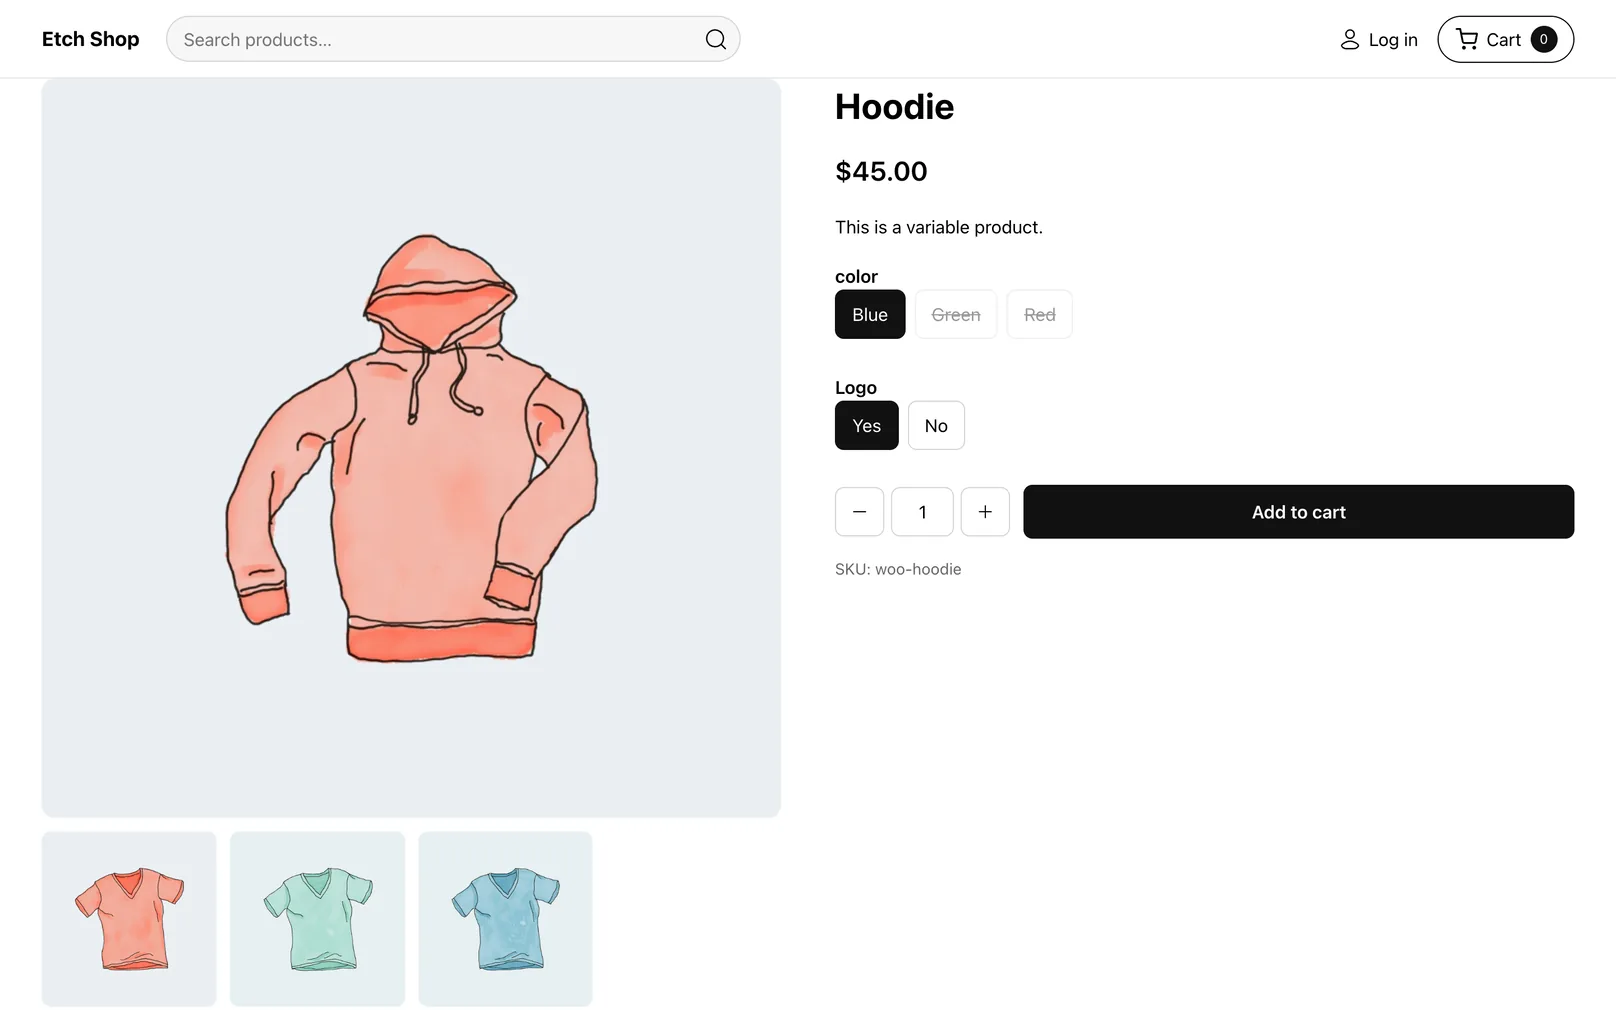
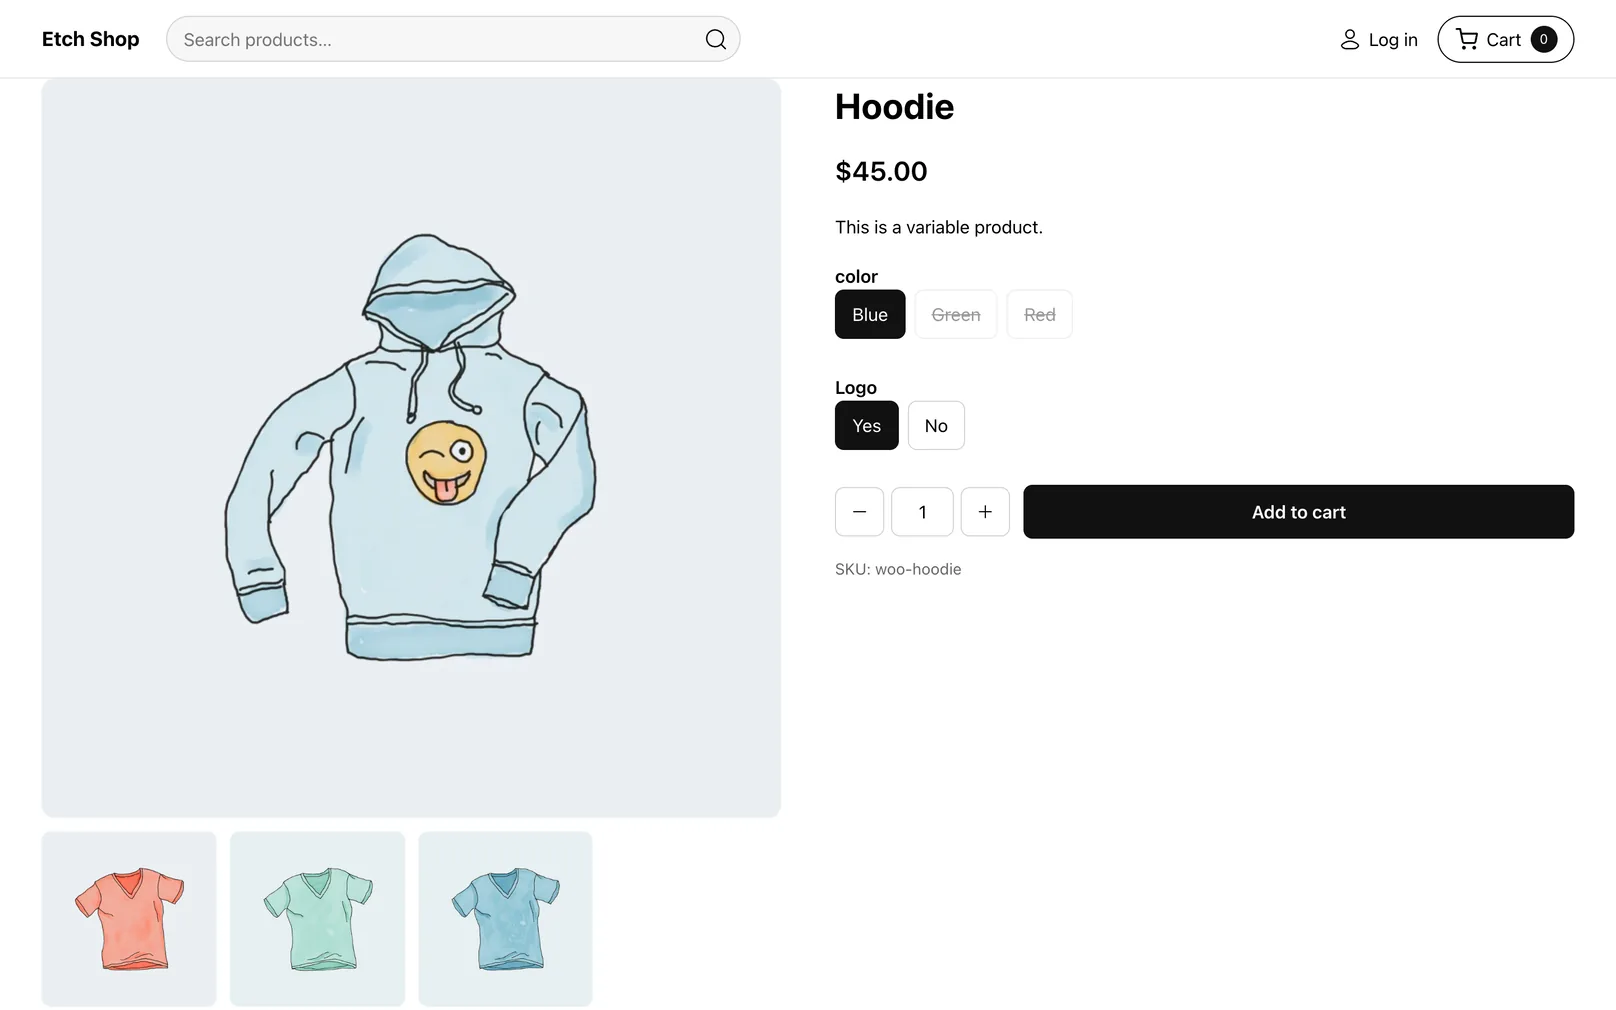
docs(woocommerce): product image role, review contact fields, phone screenshots (#71)
* docs(woocommerce): product-image role, review contact fields and singular counts

Screenshots retaken with the fixed starters; the category page is back.

* docs(woocommerce): the starters on a phone

---------

Changed region(s): [[0.1238, 0.2149, 0.3713, 0.6752]]

diff --git a/docs/docs/integrations/woocommerce/product-data.md b/docs/docs/integrations/woocommerce/product-data.md
@@ -45,10 +45,13 @@ Prices are plain text in the shop's format, with currency and tax as the shop di
 | Field | Content |
 | --- | --- |
 | `rating`, `rating_count`, `review_count` | Average rating and counts |
+| `has_one_review` | The product has exactly one review, for a label like `1 review` |
 | `rating_label` | The average with one decimal in the shop's number format, such as `4,5` |
 | `reviews` | Up to 20 approved reviews, newest first: `{ id, author, rating, text, date, date_iso, verified }` |
 | `reviews_open` | The shop takes reviews and the product is open for them |
-| `can_review` | The visitor may write a review. When WooCommerce allows reviews by verified owners only, this needs a logged-in customer who bought the product |
+| `can_review` | The visitor may write a review. When WooCommerce allows reviews by verified owners only, this needs a logged-in customer who bought the product. When WordPress takes comments from registered users only, guests may not review |
+| `review_contact_required` | A guest reviews and WordPress requires name and email (**Settings → Discussion**) |
+| `review_contact_optional` | A guest reviews and WordPress does not require name and email |
 
 A review form is your own markup. It posts to WordPress, which validates, stores and moderates the review as for WooCommerce's own form:
 
@@ -63,11 +66,17 @@ A review form is your own markup. It posts to WordPress, which validates, stores
   </fieldset>
   <label for="review-text">Your review</label>
   <textarea id="review-text" name="comment" required></textarea>
-  {#if !woo.account.is_logged_in}
+  {#if this.woo.review_contact_required}
   <label for="review-author">Name</label>
   <input type="text" id="review-author" name="author" autocomplete="name" required />
   <label for="review-email">Email</label>
   <input type="email" id="review-email" name="email" autocomplete="email" required />
+  {/if}
+  {#if this.woo.review_contact_optional}
+  <label for="review-author-optional">Name</label>
+  <input type="text" id="review-author-optional" name="author" autocomplete="name" />
+  <label for="review-email-optional">Email</label>
+  <input type="email" id="review-email-optional" name="email" autocomplete="email" />
   {/if}
   <input type="hidden" name="comment_post_ID" value="{this.id}" />
   <input type="hidden" name="comment_parent" value="0" />
@@ -76,7 +85,7 @@ A review form is your own markup. It posts to WordPress, which validates, stores
 {/if}
 ```
 
-`{site.url}` keeps the form working when WordPress is installed in a subdirectory. Guests who may review need the name and email fields. Keep `required` on them when **Comment author must fill out name and email** is enabled under **Settings → Discussion**, and remove it when it is not.
+`{site.url}` keeps the form working when WordPress is installed in a subdirectory. Guests get the name and email fields, required when WordPress requires them; logged-in customers get neither. **Woo Product** builds its review form this way.
 
 ## Shop-wide data
 
@@ -88,7 +97,7 @@ These keys work on every page:
 | `woo.shipping` | `countries` (the countries the store ships to, each with `code` and `name`), `calculator` (WooCommerce offers the shipping calculator on the cart) |
 | `woo.checkout.url` | Link to the checkout |
 | `woo.account` | `url`, `endpoint`, `is_dashboard`, `menu`, `is_logged_in`, and for customers `name` (first name, else display name), `orders` and `addresses` |
-| `woo.shop` | On shop, category, tag and search pages: `url`, `title`, `description`, `products` (cards like `related_products`, with `quick_add`), `total`, `pages` (`number`, `url`, `is_current`), `previous_url`, `next_url`, `sorting` (`value`, `label`, `is_current`), `search` and `categories` (`name`, `url`, `count`, `is_current`); elsewhere `url` and empty lists |
+| `woo.shop` | On shop, category, tag and search pages: `url`, `title`, `description`, `products` (cards like `related_products`, with `quick_add`), `total`, `has_one_product` (for `1 product`), `pages` (`number`, `url`, `is_current`), `previous_url`, `next_url`, `sorting` (`value`, `label`, `is_current`), `search` and `categories` (`name`, `url`, `count`, `is_current`); elsewhere `url` and empty lists |
 | `woo.order` | The current order on the thank-you page and in the account, following WooCommerce's access rules |
 
 Loop over the cart with `woo.cart.items`. Each item is one line: `item.name`, `item.quantity`, `item.price`.

diff --git a/docs/docs/integrations/woocommerce/product-pages.md b/docs/docs/integrations/woocommerce/product-pages.md
@@ -14,7 +14,7 @@ A product form adds a product to the cart. You design it completely: swatches, p
 | Component | What it shows |
 | --- | --- |
 | **Woo Product** | The page: store notices, gallery and summary side by side, then description, reviews and related products (`this.woo.related_products`) |
-| **Woo Product Gallery** | The product image and the gallery images |
+| **Woo Product Gallery** | The product image, which switches to the chosen variation's image (`product-image`), and the gallery images |
 | **Woo Product Form** | Price, short description, one choice per variation option, quantity buttons and add to cart |
 | **Woo Product Reviews** | Approved reviews and the review form |
 
@@ -32,6 +32,7 @@ A product form adds a product to the cart. You design it completely: swatches, p
 | `variation-option` | radio, `name="{attribute.slug}"`, `value="{option.slug}"` | Chooses an option; disabled when no variation in stock fits the other choices |
 | `option-price` | text inside the option's label | The option's price once it settles the variation |
 | `product-price` | text, `{this.woo.price}` | The chosen variation's price; the server's price until one is chosen |
+| `product-image` | `img` with `data-etch-woo-id="{this.id}"`, outside the form | Shows the chosen variation's own image; the product image again when the choice has none |
 | `product-quantity` | `input` | Quantity; 1 when left out |
 | `quantity-step` | `button` with `data-etch-woo-step="1"` or `"-1"` | Changes the quantity, never below 1 |
 | `product-addon` | checkbox with `data-etch-woo-id` = product or variation ID | An accessory added together with the product, in the same quantity |

diff --git a/docs/docs/integrations/woocommerce/get-started.md b/docs/docs/integrations/woocommerce/get-started.md
@@ -85,6 +85,10 @@ Click **Install** next to **Woo Header**. It adds **Woo Header** with the site n
 
 ### 7. Check the result
 
+The starters work on phones out of the box: the header puts the search on its own row, the categories wrap and the cart drawer takes the full width.
+
+![Shop, product, cart drawer and cart on a phone](img/woo-mobile.webp)
+
 - Add a product to the cart: the cart count, the drawer and the cart page update together.
 - Open the checkout: your payment methods and any blocks plugins add (legal checkboxes, newsletter opt-ins) are there.
 - Tools → Site Health shows no Etch checkout warnings.

diff --git a/docs/docs/integrations/woocommerce/shop-pages.md b/docs/docs/integrations/woocommerce/shop-pages.md
@@ -63,6 +63,8 @@ The template stays the frame around it.
 
 The products are the page's own, so WooCommerce's sorting, filters, paging and the shop's products per page apply.
 
+![A category page from Woo Shop: the current category is marked in the list, simple products have Add to cart, variable ones Select options](img/woo-category.webp)
+
 The sorting is a `select` with the role `catalog-sorting` and `name="orderby"` inside a GET form. Choosing an order submits the form, as WooCommerce's own dropdown does. On search results the form keeps the search terms (`woo.shop.search`).
 
 ## Order confirmation
